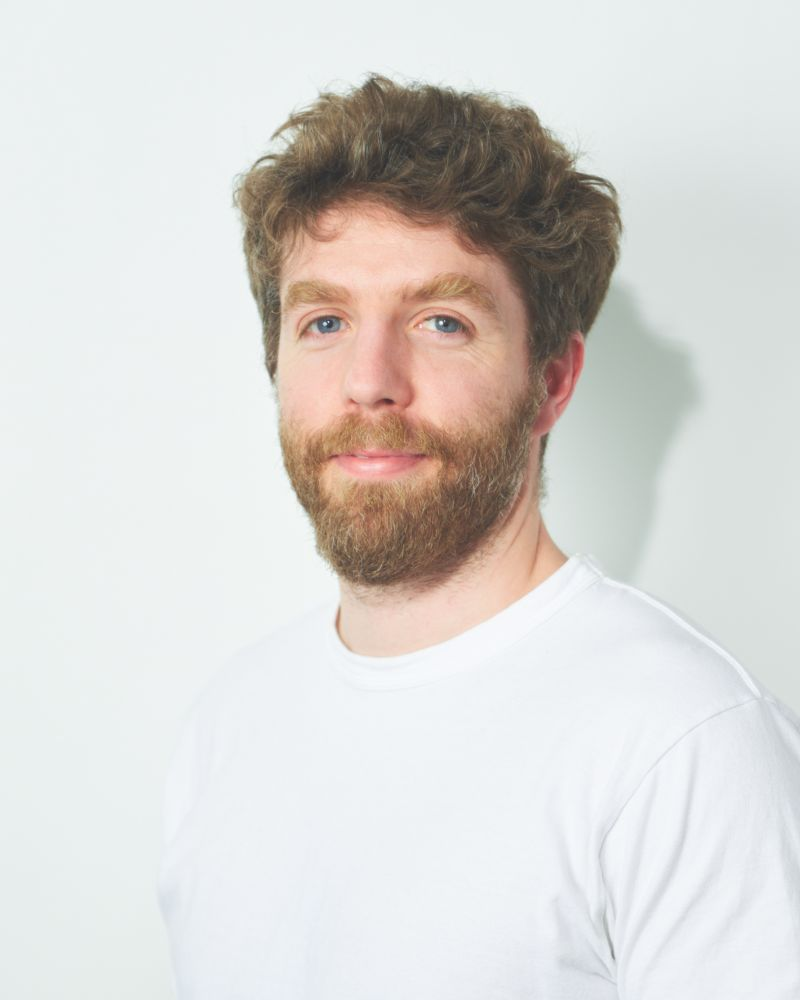
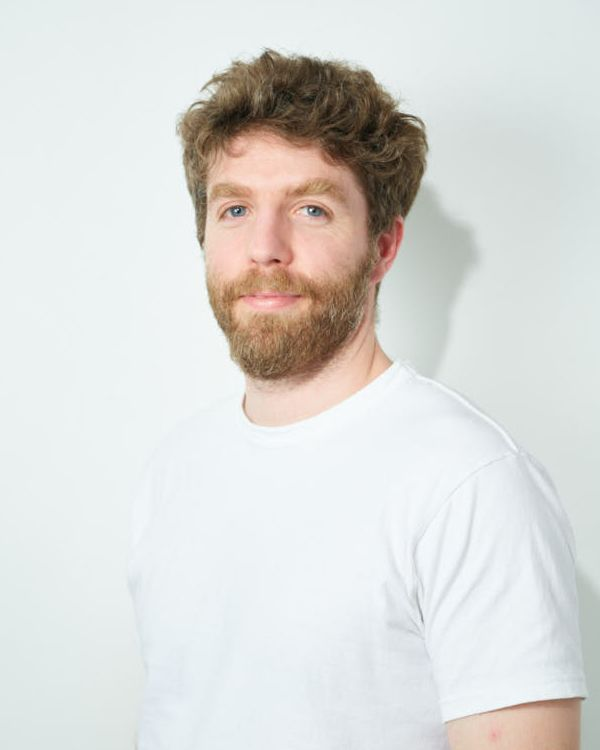
change photos

diff --git a/content/en/about/index.md b/content/en/about/index.md
@@ -27,7 +27,7 @@ Imiron (意味論) means _semantics_ in Japanese:
 
 <div class="team-member">
   <div class="photo">
-    <img src="/images/12488.jpg"/>
+    <img src="/images/12534.jpg"/>
   </div>
   <div class="details">
     <h3 class="name">Masakazu Adachi</h2>

diff --git a/content/ja/about/index.md b/content/ja/about/index.md
@@ -27,7 +27,7 @@ build:
 
 <div class="team-member">
   <div class="photo">
-    <img src="/images/12488.jpg"/>
+    <img src="/images/12534.jpg"/>
   </div>
   <div class="details">
     <h3 class="name">足立 正和</h2>
